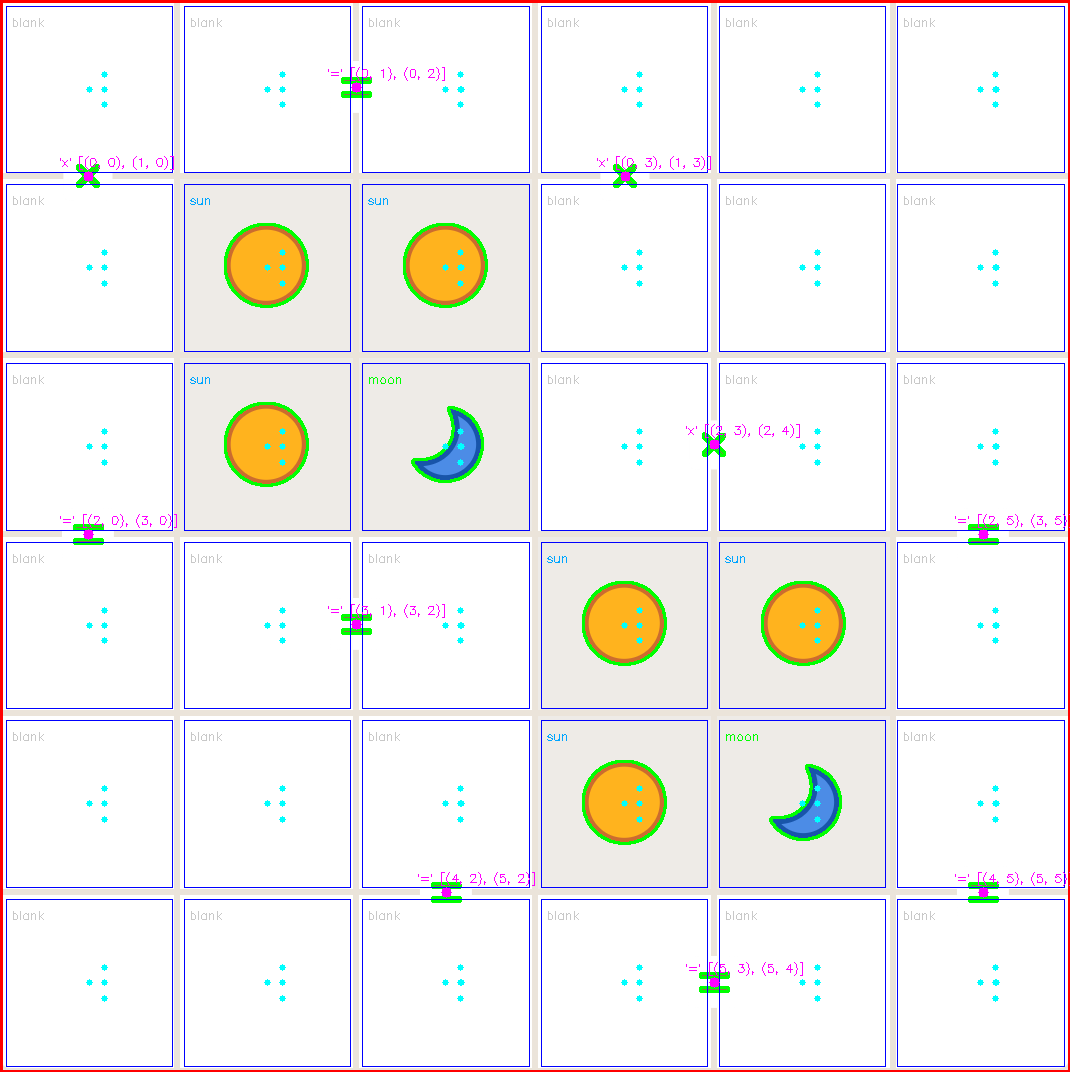
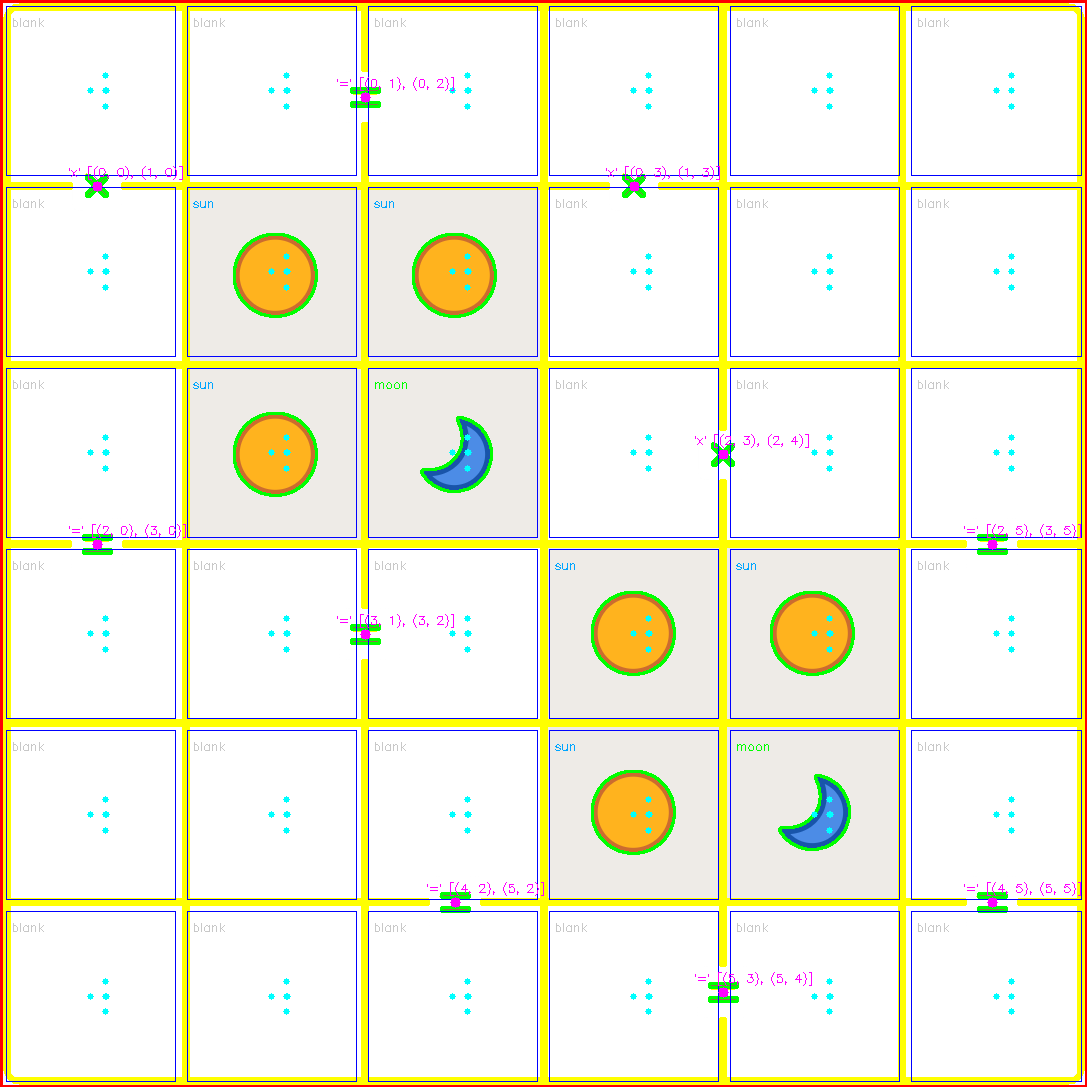
new screenshot detection logic

Changed region(s): [[0.0, 0.0, 1.0, 1.0], [0.3701, 0.3694, 0.4626, 0.4618], [0.7093, 0.5541, 0.7402, 0.6157]]

diff --git a/app/board_parser.py b/app/board_parser.py
@@ -34,7 +34,6 @@ class BoardParser:
 
         # 3. Your existing processing logic continues below...
         img_cropped = self._crop_image(img)
-        # img_cropped = img
 
         img_rgb = cv2.cvtColor(img_cropped, cv2.COLOR_BGR2RGB)
         board_box = self._find_board_region(img_rgb)
@@ -54,25 +53,23 @@ class BoardParser:
         }
 
     def _crop_image(self, img: np.ndarray) -> np.ndarray:
-        """Crops the image to isolate the grid using precise pixel boundaries."""
+        """Finds the board by locating the top-left and bottom-right border pixels of the known color."""
         height, width = img.shape[:2]
-        
-        # 50px from left/right, 420px from top, 1040px from bottom
-        y0 = 420
-        y1 = height - 1040
-        x0 = 50
-        x1 = width - 50
 
-        # Safety boundaries check
-        y0 = max(0, min(y0, height))
-        y1 = max(0, min(y1, height))
-        x0 = max(0, min(x0, width))
-        x1 = max(0, min(x1, width))
+        target_color = np.array([229, 226, 214], dtype=np.uint8)
+        tolerance = 6
+        mask = cv2.inRange(cv2.cvtColor(img, cv2.COLOR_BGR2RGB), target_color - tolerance, target_color + tolerance)
+        ys, xs = np.where(mask > 0)
 
-        if y1 <= y0 or x1 <= x0:
-            return img  # fallback if bounds are invalid for this image size
+        topLeft = (min(xs), min(ys))
+        bottomRight = (max(xs), max(ys))
+        padding = 4
+        x0 = max(0, topLeft[0] - padding)
+        y0 = max(0, topLeft[1] - padding)
+        x1 = min(width, bottomRight[0] + padding)
+        y1 = min(height, bottomRight[1] + padding)
 
-        return img[y0:y1, x0:x1]
+        return img[y0:y1, x0:x1]    
 
     def _find_board_region(self, img: np.ndarray) -> Tuple[int, int, int, int]:
         height, width = img.shape[:2]
@@ -85,38 +82,36 @@ class BoardParser:
         min_cell_size = expected_cell_size * 0.6
         max_cell_size = expected_cell_size * 1.4
 
-        valid_boxes = []
+        candidate_boxes = []
         for contour in contours:
             area = cv2.contourArea(contour)
             if area < (min_cell_size ** 2) * 0.5:
                 continue
 
             x, y, w, h = cv2.boundingRect(contour)
-            
-            # Enforce that cells are roughly square
-            aspect_ratio = w / h
+            aspect_ratio = w / h if h > 0 else 0
+
             if not (0.75 <= aspect_ratio <= 1.3):
                 continue
-                
-            # Enforce that cells match the expected grid cell sizing,
-            # which filters out small non-cell symbols (like x, = or other noise)
+
             if not (min_cell_size <= w <= max_cell_size) or not (min_cell_size <= h <= max_cell_size):
                 continue
 
-            valid_boxes.append((x, y, w, h))
+            candidate_boxes.append((x, y, w, h))
 
-        if not valid_boxes:
-            # Fallback to full cropped image if no square cells are detected
+        if not candidate_boxes:
             return 0, 0, width, height
 
-        # Find the bounding box that encompasses all valid cell contours
-        min_x = min(box[0] for box in valid_boxes)
-        min_y = min(box[1] for box in valid_boxes)
-        max_x = max(box[0] + box[2] for box in valid_boxes)
-        max_y = max(box[1] + box[3] for box in valid_boxes)
+        # Prefer the largest cluster of cells, not the whole image.
+        # Sort by area and take the biggest plausible board box.
+        candidate_boxes.sort(key=lambda b: b[2] * b[3], reverse=True)
+        x, y, w, h = candidate_boxes[0]
 
-        best_box = (min_x, min_y, max_x - min_x, max_y - min_y)
-        return best_box
+        # If the first candidate is very small, fall back to the full region.
+        if w * h < width * height * 0.2:
+            return 0, 0, width, height
+
+        return x, y, w, h
 
     def _cell_bounds(self, board_box: Tuple[int, int, int, int], row: int, col: int) -> Tuple[int, int, int, int]:
         x, y, w, h = board_box

diff --git a/debug_visualize.py b/debug_visualize.py
@@ -14,8 +14,17 @@ def debug_visualize(parser: BoardParser, image_path: str, output_path: str = "de
     
     # Pre-crop the image to isolate the board exactly like the parser does
     img_cropped = parser._crop_image(img)
-    img_rgb = cv2.cvtColor(img_cropped, cv2.COLOR_BGR2RGB)
+    img_rgb = cv2.cvtColor(img_cropped, cv2.COLOR_BGR2RGB) # not cropped
     img_display = img_rgb.copy()
+
+    # Step 0: Highlight the exact target border-color pixels used for cropping
+    target_color = np.array([229, 226, 214], dtype=np.uint8)
+    tolerance = 6
+    mask = cv2.inRange(cv2.cvtColor(img_cropped, cv2.COLOR_BGR2RGB), target_color - tolerance, target_color + tolerance)
+    ys, xs = np.where(mask > 0)
+    for y, x in zip(ys, xs):
+        cv2.circle(img_display, (x, y), 1, (255, 255, 0), 1)
+
     
     # Step 1: Draw detected contours on the cropped canvas
     gray = cv2.cvtColor(img_rgb, cv2.COLOR_RGB2GRAY)